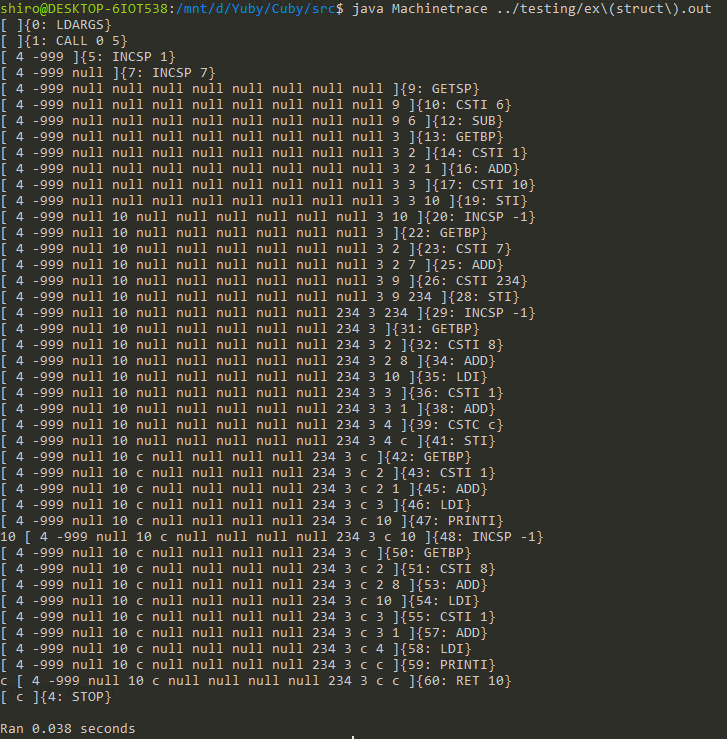
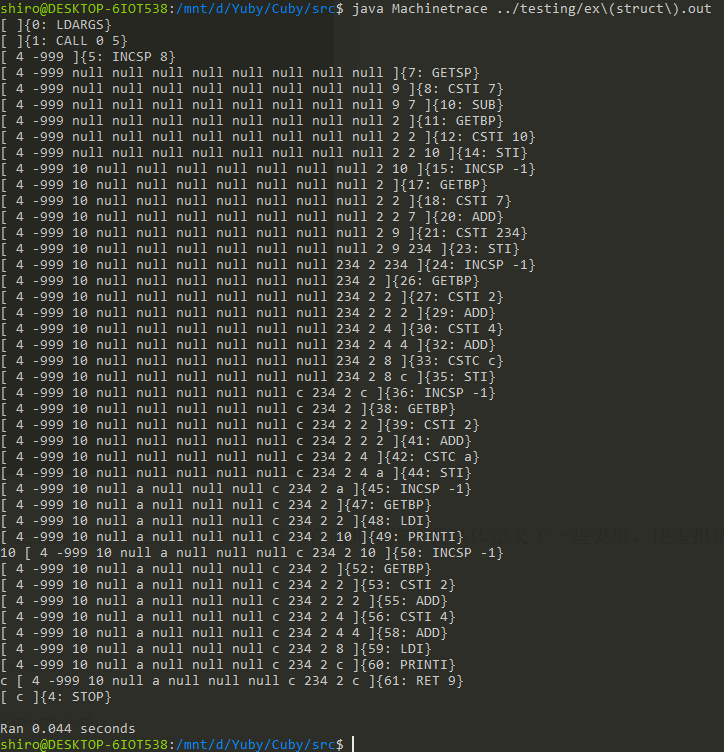
fix struct error

Changed region(s): [[0.0, 0.0, 0.7293, 1.0], [0.6989, 0.0, 0.9724, 0.0311], [0.7293, 0.7158, 0.7597, 0.747]]

diff --git a/Cuby/testing/ex(struct).c b/Cuby/testing/ex(struct).c
@@ -1,16 +1,15 @@
 struct student{
     int number;
+    int number2;
     char name[5];
     float id;
 };
 int main(){
-    int i;
-
     struct student hello;
     hello.number = 10;
     hello.id = 234;
-    hello.name[1] = 'c';
-    int j;
+    hello.name[4] = 'c';
+    hello.name[0] = 'a';
     print hello.number;
-    print hello.name[1];
+    print hello.name[4];
 }

diff --git a/README.md b/README.md
@@ -320,19 +320,18 @@ java Machinetrace ex9.out 0
     ```C
         struct student{
             int number;
+            int number2;
             char name[5];
             float id;
         };
         int main(){
-            int i;
-
             struct student hello;
             hello.number = 10;
             hello.id = 234;
-            hello.name[1] = 'c';
-            int j;
+            hello.name[4] = 'c';
+            hello.name[0] = 'a';
             print hello.number;
-            print hello.name[1];
+            print hello.name[4];
         }
     ```
 
